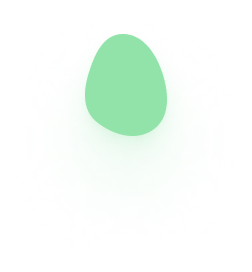
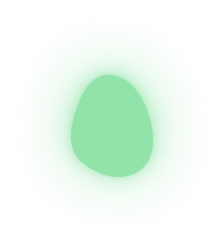
done with form in all sizes

Changed region(s): [[0.25, 0.1148, 0.75, 0.7746]]

diff --git a/css/contact.css b/css/contact.css
@@ -199,6 +199,8 @@ header .inner {
   .contact-container .inner {
     display: flex;
     flex-direction: row;
+    z-index: 10;
+    overflow: visible;
   }
 
   .contact-form-container {
@@ -224,24 +226,65 @@ header .inner {
     width: 50%;
   }
 
-  .contact-container::after {
-    display: none;
-  }
-
   .input-email-container,
   .input-name-container {
     width: 70%;
+    max-width: 280px;
   }
 
-  .input-message-container {
-    width: 100%;
+  .input-message-container,
+  .message-input {
+    width: 400px;
+    height: 140px;
   }
 
   .form-control {
     height: 40px;
   }
 
-  .message-input {
+  .contact-container::after {
+    background: linear-gradient(
+      90deg,
+      rgba(12, 12, 12, 0) 0%,
+      rgba(12, 12, 12, 0) 32%,
+      rgba(12, 12, 12, 0.8791165014164306) 54%,
+      rgba(12, 12, 12, 1) 100%
+    );
+    content: "";
+    z-index: 2;
+    content: "";
+    position: absolute;
+    top: 0;
+    left: 0;
+    height: 100%;
     width: 100%;
+    opacity: 100%;
+  }
+
+  .contact-img {
+    position: absolute;
+    width: 150%;
+    height: 150%;
+    top: 90px;
+    right: -10px;
+  }
+
+  .blob2 {
+    top: 100px;
+  }
+
+  .blob1 {
+    top: 480px;
+    left: -150px;
+  }
+}
+
+@media screen and (min-width: 770px) and (max-width: 882px) {
+  .blob1 {
+    top: 380px;
+  }
+
+  .blob2 {
+    top: 70px;
   }
 }

diff --git a/contact.html b/contact.html
@@ -93,8 +93,9 @@
                     Eller kontakt oss på telefon.</p>
             </div>
             <div class="contact-form-wrapper">
-                <form action="" name="contact" method="post" data-netlify="true" onsubmit="SubmitEvent">
+                <form netlify name="contact" method="post" data-netlify="true" onsubmit="SubmitEvent" data-netlify-honeypot="bot-field">
                     <div class="input-container">
+                        <input class="hide" name="bot-field">
                         <div class="input-name-container">
                             <label class="m0 s-font white-text" for="name">Navn</label>
                             <input type="text" class="form-control" id="name" name="name">
@@ -107,7 +108,7 @@
                             <label for="messageInput" class="white-text s-font">Din Melding</label>
                             <textarea class="message-input" name="message" id="messageInput"  rows="10"></textarea>
                         </div>
-                        <button type="submit" class="submit-button ">Send Melding</button>
+                        <button type="submit" class="submit-button">Send Melding</button>
                     </div>
                 </form>
             </div>
